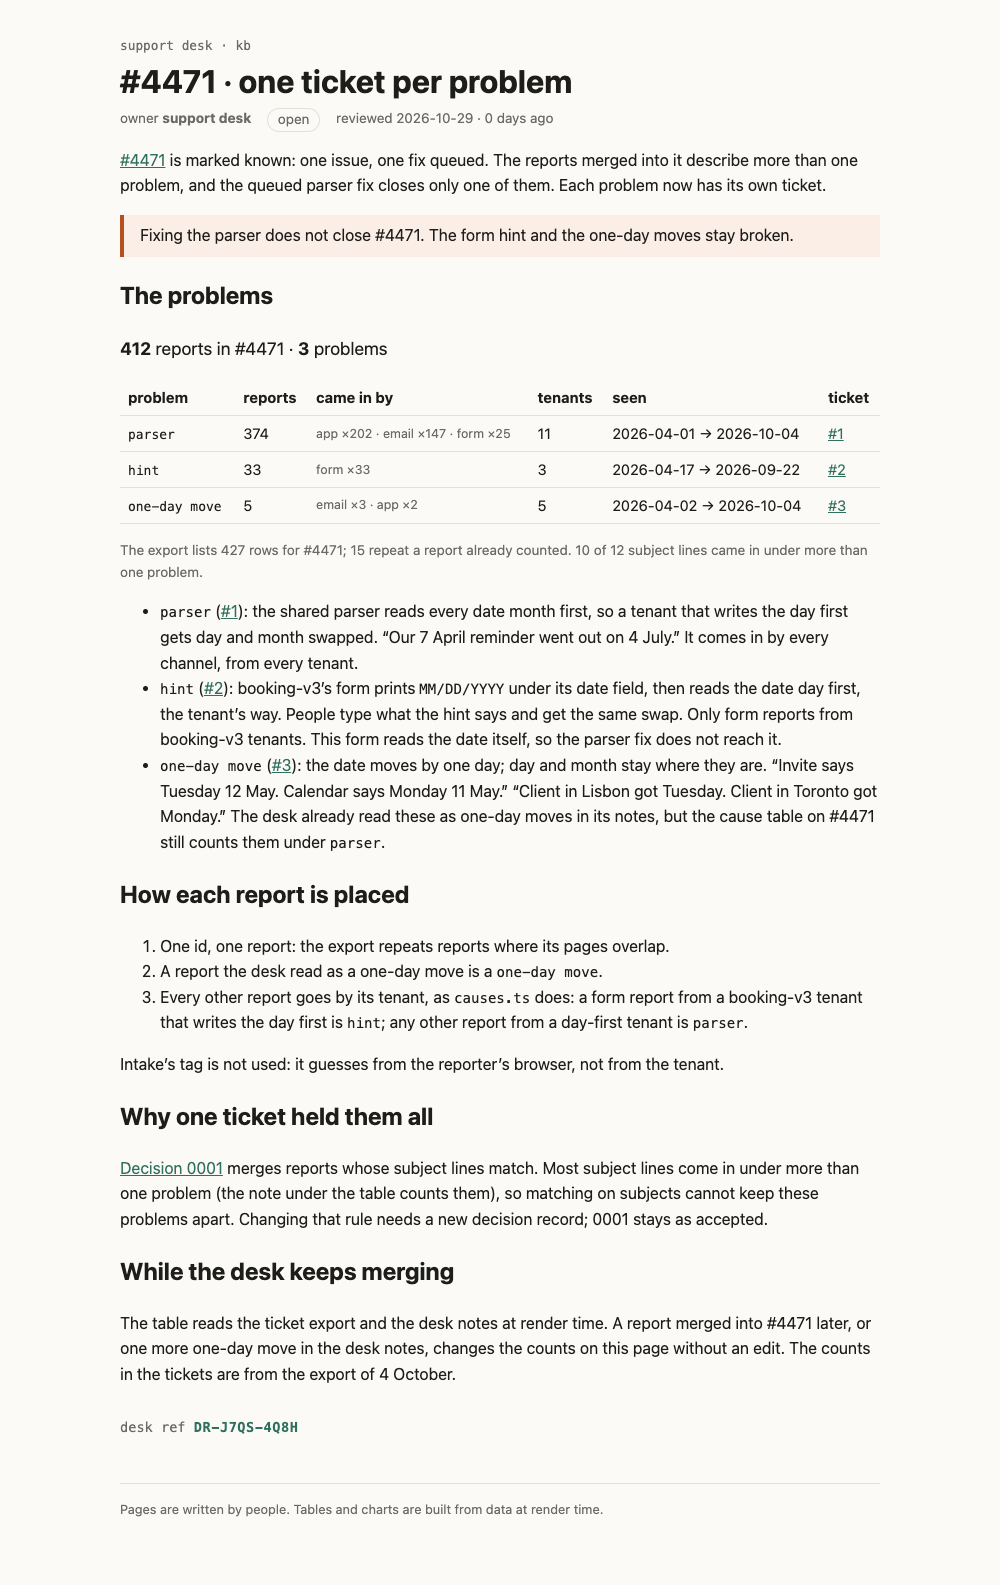
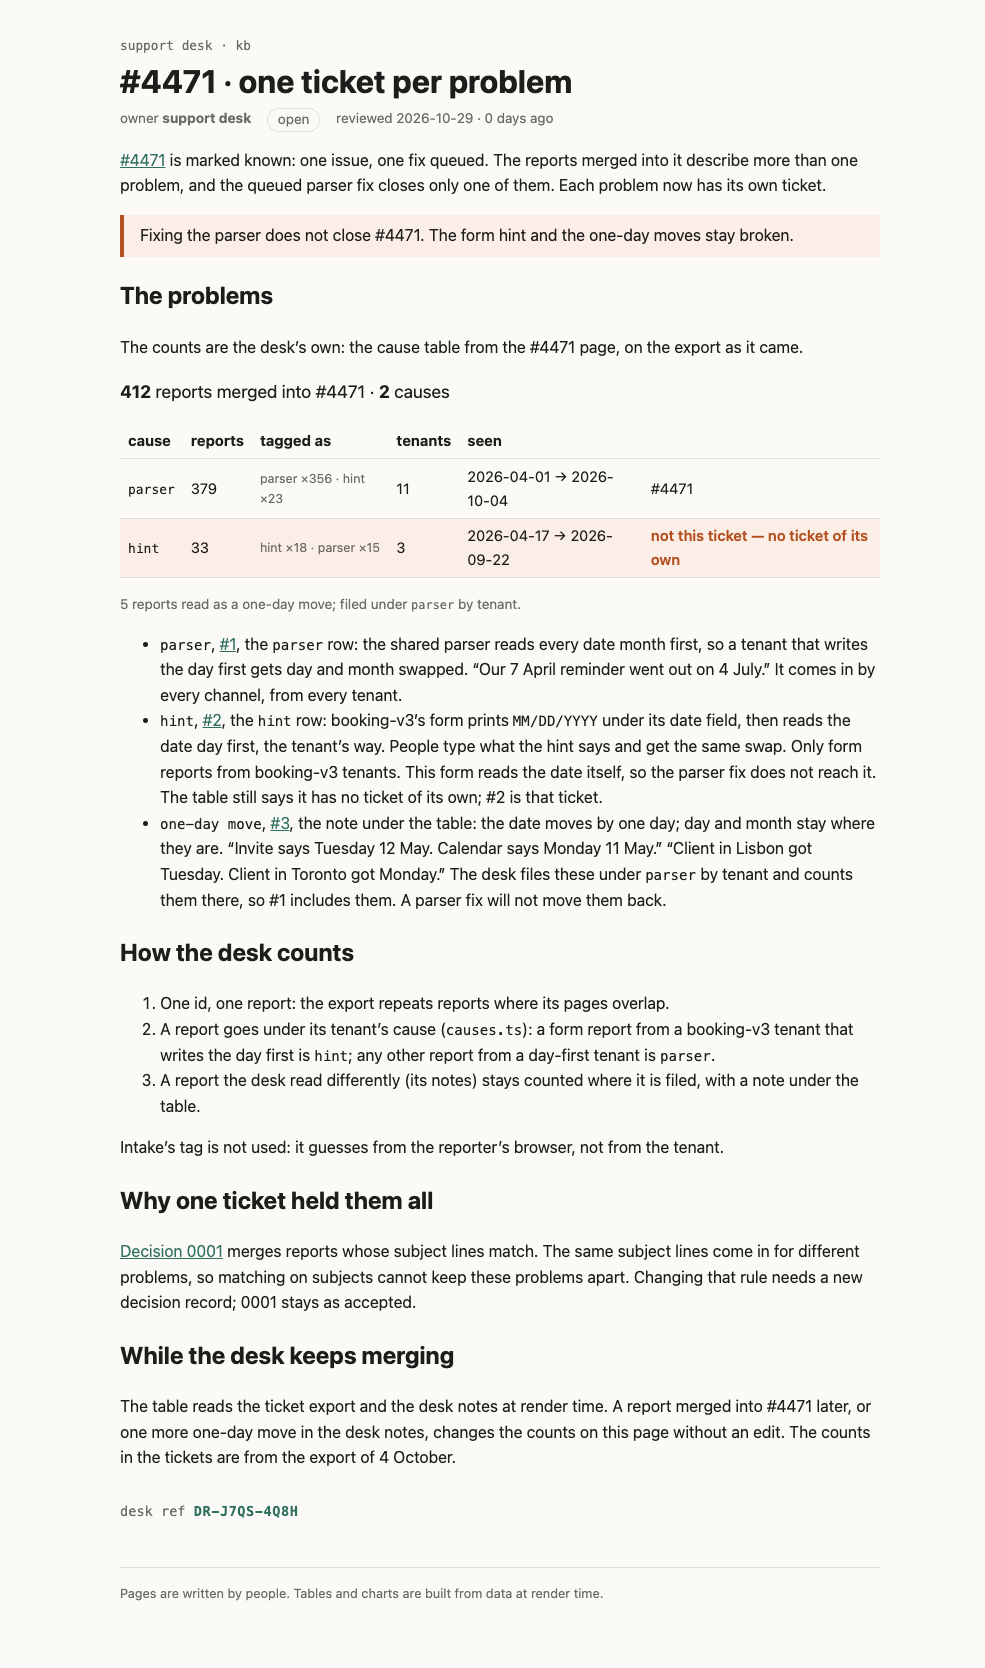
Count the #4471 problems page with the desk's cause table

Changed region(s): [[0.1218, 0.0, 0.8832, 0.9584], [0.7614, 0.1855, 0.7919, 0.2164]]

diff --git a/rendered/kb/incidents/4471/problems.html b/rendered/kb/incidents/4471/problems.html
@@ -9,57 +9,62 @@
 		<link href="../../../_app/immutable/chunks/B2Ul7l_u.js" rel="modulepreload">
 		<link href="../../../_app/immutable/chunks/BCPXOG7W.js" rel="modulepreload">
 		<link href="../../../_app/immutable/chunks/Dh1V97Jm.js" rel="modulepreload">
-		<link href="../../../_app/immutable/entry/app.BIWG_XNM.js" rel="modulepreload">
+		<link href="../../../_app/immutable/entry/app.asd2iK0O.js" rel="modulepreload">
 		<link href="../../../_app/immutable/nodes/0.C9KfiiPz.js" rel="modulepreload">
 		<link href="../../../_app/immutable/chunks/DK3Fl9T5.js" rel="modulepreload">
-		<link href="../../../_app/immutable/nodes/5.BQuOBUYc.js" rel="modulepreload">
-		<link href="../../../_app/immutable/chunks/CfKM8Pir.js" rel="modulepreload">
+		<link href="../../../_app/immutable/nodes/5.DCHcEMlf.js" rel="modulepreload">
+		<link href="../../../_app/immutable/chunks/Dxyy-4vc.js" rel="modulepreload">
 		<link href="../../../_app/immutable/chunks/BTPwLomz.js" rel="modulepreload">
-		<link href="../../../_app/immutable/chunks/CVBzP17p.js" rel="modulepreload">
+		<link href="../../../_app/immutable/chunks/D_eX76ox.js" rel="modulepreload">
 		<link href="../../../_app/immutable/chunks/BIy4WKJS.js" rel="modulepreload">
 		<!--e2jw2j--><!----><title>#4471 · one ticket per problem · support kb</title>
 		<style>:root{--bg:#fbfaf7;--fg:#1d1d1b;--muted:#6b6a66;--line:#e3e0d8;--accent:#2f6f5e;--warn:#b4501f;--warn-bg:#fbeee6;--note-bg:#eef5f2;--mono:ui-monospace, "Cascadia Code", Menlo, monospace}@media (prefers-color-scheme:dark){:root{--bg:#171716;--fg:#ecebe6;--muted:#9c9a93;--line:#34332f;--accent:#6fbfa6;--warn:#f0905d;--warn-bg:#3a2418;--note-bg:#1d2c27}}body{background:var(--bg);color:var(--fg);margin:0;font:16px/1.6 system-ui,sans-serif}.kb table{border-collapse:collapse;width:100%;margin:1rem 0;font-size:.92rem}.kb th,.kb td{border-bottom:1px solid var(--line);text-align:left;padding:.35rem .5rem}.kb code{font-family:var(--mono);font-size:.88em}.kb a{color:var(--accent)}.kb.svelte-e2jw2j{max-width:760px;margin:0 auto;padding:2rem 16px 4rem}.crumb.svelte-e2jw2j{font:.8rem var(--mono);color:var(--muted);text-decoration:none}h1.svelte-e2jw2j{margin:.25rem 0 .5rem;line-height:1.2}.meta.svelte-e2jw2j{color:var(--muted);flex-wrap:wrap;gap:.5rem 1rem;margin:0;font-size:.85rem;display:flex}.status.svelte-e2jw2j{border:1px solid var(--line);border-radius:99px;padding:0 .6rem}.stale.svelte-e2jw2j{color:var(--warn);font-weight:600}.banner.svelte-e2jw2j{background:var(--warn-bg);color:var(--warn);border-radius:6px;padding:.6rem 1rem}footer.svelte-e2jw2j{color:var(--muted);border-top:1px solid var(--line);margin-top:3rem;padding-top:1rem;font-size:.8rem}
 
 aside.svelte-17bri61{border-left:4px solid var(--accent);background:var(--note-bg);margin:1rem 0;padding:.5rem 1rem}aside.warn.svelte-17bri61{border-color:var(--warn);background:var(--warn-bg)}
 
-.sum.svelte-1op6c6{font-size:1.1rem}.tags.svelte-1op6c6,.note.svelte-1op6c6{color:var(--muted);font-size:.85em}.none.svelte-1op6c6{color:var(--warn);font-weight:600}.stamp.svelte-1280m42{font:.85rem var(--mono);color:var(--muted);margin:2rem 0 0}.stamp.svelte-1280m42 b:where(.svelte-1280m42){color:var(--accent);letter-spacing:.04em}.missing.svelte-1280m42{color:var(--warn)}
+.sum.svelte-12oyimm{font-size:1.1rem}.tags.svelte-12oyimm,.note.svelte-12oyimm{color:var(--muted);font-size:.85em}.wrong.svelte-12oyimm td:where(.svelte-12oyimm){background:var(--warn-bg)}.wrong.svelte-12oyimm td:where(.svelte-12oyimm):last-child{color:var(--warn);font-weight:600}
+
+.stamp.svelte-1280m42{font:.85rem var(--mono);color:var(--muted);margin:2rem 0 0}.stamp.svelte-1280m42 b:where(.svelte-1280m42){color:var(--accent);letter-spacing:.04em}.missing.svelte-1280m42{color:var(--warn)}
 </style>
 		<link href="../../../_app/immutable/assets/runbook.COyw0cbZ.css" rel="stylesheet" disabled media="(max-width: 0)">
 		<link href="../../../_app/immutable/assets/Callout.AbLv9dM_.css" rel="stylesheet" disabled media="(max-width: 0)">
-		<link href="../../../_app/immutable/assets/_page.Dc7fFzAu.css" rel="stylesheet" disabled media="(max-width: 0)">
+		<link href="../../../_app/immutable/assets/CauseTable.DuKfINX_.css" rel="stylesheet" disabled media="(max-width: 0)">
+		<link href="../../../_app/immutable/assets/_page.WePi3wDe.css" rel="stylesheet" disabled media="(max-width: 0)">
   </head>
   <body>
     <div style="display: contents"><!--[--><!--[--><!--[0--><!--[--><!--[--><!--[-1--><!--[--><div class="kb svelte-e2jw2j"><header><a class="crumb svelte-e2jw2j" href="/kb">support desk · kb</a> <h1 class="svelte-e2jw2j">#4471 · one ticket per problem</h1> <p class="meta svelte-e2jw2j"><span>owner <b>support desk</b></span> <span class="status open svelte-e2jw2j">open</span> <span class="svelte-e2jw2j">reviewed 2026-10-29 · 0 days ago</span></p></header> <!--[-1--><!--]--> <main><p><a href="/kb/incidents/4471">#4471</a> is marked known: one issue, one fix queued. The reports merged into it
 describe more than one problem, and the queued parser fix closes only one of them. Each problem now
-has its own ticket.</p> <aside class="warn svelte-17bri61"><!---->Fixing the parser does not close #4471. The form hint and the one-day moves stay broken.<!----></aside><!----> <h2>The problems</h2> <p class="sum svelte-1op6c6"><strong>412</strong> reports in #4471 · <strong>3</strong> problems</p> <table><thead><tr><th>problem</th><th>reports</th><th>came in by</th><th>tenants</th><th>seen</th><th>ticket</th></tr></thead><tbody><!--[--><tr><td><code>parser</code></td><td>374</td><td class="tags svelte-1op6c6">app ×202 · email ×147 · form ×25</td><td>11</td><td>2026-04-01 → 2026-10-04</td><td><!--[0--><a href="https://github.com/dudziakm/mega-s01e03-support-kb/issues/1">#1</a><!--]--></td></tr><tr><td><code>hint</code></td><td>33</td><td class="tags svelte-1op6c6">form ×33</td><td>3</td><td>2026-04-17 → 2026-09-22</td><td><!--[0--><a href="https://github.com/dudziakm/mega-s01e03-support-kb/issues/2">#2</a><!--]--></td></tr><tr><td><code>one-day move</code></td><td>5</td><td class="tags svelte-1op6c6">email ×3 · app ×2</td><td>5</td><td>2026-04-02 → 2026-10-04</td><td><!--[0--><a href="https://github.com/dudziakm/mega-s01e03-support-kb/issues/3">#3</a><!--]--></td></tr><!--]--></tbody></table> <p class="note svelte-1op6c6">The export lists 427 rows for #4471; 15 repeat a report already counted.
-  10 of 12 subject lines came in under more than one problem.</p><!----> <ul><li><code>parser</code> (<a href="https://github.com/dudziakm/mega-s01e03-support-kb/issues/1" rel="nofollow">#1</a>): the shared parser
-reads every date month first, so a tenant that writes the day first gets day and month swapped.
-“Our 7 April reminder went out on 4 July.” It comes in by every channel, from every tenant.</li> <li><code>hint</code> (<a href="https://github.com/dudziakm/mega-s01e03-support-kb/issues/2" rel="nofollow">#2</a>): booking-v3’s form
-prints <code>MM/DD/YYYY</code> under its date field, then reads the date day first, the tenant’s way. People
-type what the hint says and get the same swap. Only form reports from booking-v3 tenants. This form
-reads the date itself, so the parser fix does not reach it.</li> <li><code>one-day move</code> (<a href="https://github.com/dudziakm/mega-s01e03-support-kb/issues/3" rel="nofollow">#3</a>): the date
-moves by one day; day and month stay where they are. “Invite says Tuesday 12 May. Calendar says
-Monday 11 May.” “Client in Lisbon got Tuesday. Client in Toronto got Monday.” The desk already read
-these as one-day moves in its notes, but the cause table on #4471 still counts them under <code>parser</code>.</li></ul> <h2>How each report is placed</h2> <ol><li>One id, one report: the export repeats reports where its pages overlap.</li> <li>A report the desk read as a one-day move is a <code>one-day move</code>.</li> <li>Every other report goes by its tenant, as <code>causes.ts</code> does: a form report from a booking-v3
-tenant that writes the day first is <code>hint</code>; any other report from a day-first tenant is <code>parser</code>.</li></ol> <p>Intake’s tag is not used: it guesses from the reporter’s browser, not from the tenant.</p> <h2>Why one ticket held them all</h2> <p><a href="/kb/decisions/0001-dedupe-by-subject">Decision 0001</a> merges reports whose subject lines match. Most
-subject lines come in under more than one problem (the note under the table counts them), so
-matching on subjects cannot keep these problems apart. Changing that rule needs a new decision record; 0001
-stays as accepted.</p> <h2>While the desk keeps merging</h2> <p>The table reads the ticket export and the desk notes at render time. A report merged into #4471
+has its own ticket.</p> <aside class="warn svelte-17bri61"><!---->Fixing the parser does not close #4471. The form hint and the one-day moves stay broken.<!----></aside><!----> <h2>The problems</h2> <p>The counts are the desk’s own: the cause table from the #4471 page, on the export as it came.</p> <p class="sum svelte-12oyimm"><strong>412</strong> reports merged into #4471 · <strong>2</strong> causes</p> <table><thead><tr><th>cause</th><th>reports</th><th>tagged as</th><th>tenants</th><th>seen</th><th></th></tr></thead><tbody><!--[--><tr class="svelte-12oyimm"><td class="svelte-12oyimm"><code>parser</code></td><td class="svelte-12oyimm">379</td><td class="tags svelte-12oyimm">parser ×356 · hint ×23</td><td class="svelte-12oyimm">11</td><td class="svelte-12oyimm">2026-04-01 → 2026-10-04</td><td class="svelte-12oyimm">#4471</td></tr><tr class="svelte-12oyimm wrong"><td class="svelte-12oyimm"><code>hint</code></td><td class="svelte-12oyimm">33</td><td class="tags svelte-12oyimm">hint ×18 · parser ×15</td><td class="svelte-12oyimm">3</td><td class="svelte-12oyimm">2026-04-17 → 2026-09-22</td><td class="svelte-12oyimm">not this ticket — no ticket of its own</td></tr><!--]--></tbody></table> <!--[--><!--[0--><p class="note svelte-12oyimm">5 reports read as a one-day move; filed under <code>parser</code> by tenant.</p><!--]--><!--[-1--><!--]--><!--]--><!----> <ul><li><code>parser</code>, <a href="https://github.com/dudziakm/mega-s01e03-support-kb/issues/1" rel="nofollow">#1</a>, the <code>parser</code> row:
+the shared parser reads every date month first, so a tenant that writes the day first gets day
+and month swapped. “Our 7 April reminder went out on 4 July.” It comes in by every channel, from
+every tenant.</li> <li><code>hint</code>, <a href="https://github.com/dudziakm/mega-s01e03-support-kb/issues/2" rel="nofollow">#2</a>, the <code>hint</code> row:
+booking-v3’s form prints <code>MM/DD/YYYY</code> under its date field, then reads the date day first, the
+tenant’s way. People type what the hint says and get the same swap. Only form reports from
+booking-v3 tenants. This form reads the date itself, so the parser fix does not reach it. The
+table still says it has no ticket of its own; #2 is that ticket.</li> <li><code>one-day move</code>, <a href="https://github.com/dudziakm/mega-s01e03-support-kb/issues/3" rel="nofollow">#3</a>, the note
+under the table: the date moves by one day; day and month stay where they are. “Invite says
+Tuesday 12 May. Calendar says Monday 11 May.” “Client in Lisbon got Tuesday. Client in Toronto
+got Monday.” The desk files these under <code>parser</code> by tenant and counts them there, so #1 includes
+them. A parser fix will not move them back.</li></ul> <h2>How the desk counts</h2> <ol><li>One id, one report: the export repeats reports where its pages overlap.</li> <li>A report goes under its tenant’s cause (<code>causes.ts</code>): a form report from a booking-v3 tenant
+that writes the day first is <code>hint</code>; any other report from a day-first tenant is <code>parser</code>.</li> <li>A report the desk read differently (its notes) stays counted where it is filed, with a note
+under the table.</li></ol> <p>Intake’s tag is not used: it guesses from the reporter’s browser, not from the tenant.</p> <h2>Why one ticket held them all</h2> <p><a href="/kb/decisions/0001-dedupe-by-subject">Decision 0001</a> merges reports whose subject lines match. The
+same subject lines come in for different problems, so matching on subjects cannot keep these
+problems apart. Changing that rule needs a new decision record; 0001 stays as accepted.</p> <h2>While the desk keeps merging</h2> <p>The table reads the ticket export and the desk notes at render time. A report merged into #4471
 later, or one more one-day move in the desk notes, changes the counts on this page without an edit.
 The counts in the tickets are from the export of 4 October.</p> <!--[0--><p class="stamp svelte-1280m42">desk ref <b class="svelte-1280m42">DR-J7QS-4Q8H</b></p><!--]--><!----><!----></main> <footer class="svelte-e2jw2j">Pages are written by people. Tables and charts are built from data at render time.</footer></div><!--]--><!--]--><!--]--><!----><!--]--><!--]--><!--]--><!----> <!--[-1--><!--]--><!--]-->
 			
 			<script>
 				{
-					__sveltekit_9dmfrr = {
+					__sveltekit_ba1wet = {
 						base: new URL("../../..", location).pathname.slice(0, -1),
-						version: "1793282386496"
+						version: "1793282860903"
 					};
 
 					const element = document.currentScript.parentElement;
 
 					import("../../../_app/immutable/entry/start.CH5w6lId.js").then(async (kit) => {
-						kit.init(__sveltekit_9dmfrr);
-						const app = await import("../../../_app/immutable/entry/app.BIWG_XNM.js");
+						kit.init(__sveltekit_ba1wet);
+						const app = await import("../../../_app/immutable/entry/app.asd2iK0O.js");
 						kit.start(app, element, {
 							node_ids: [0, 5],
 							data: [null,null],
